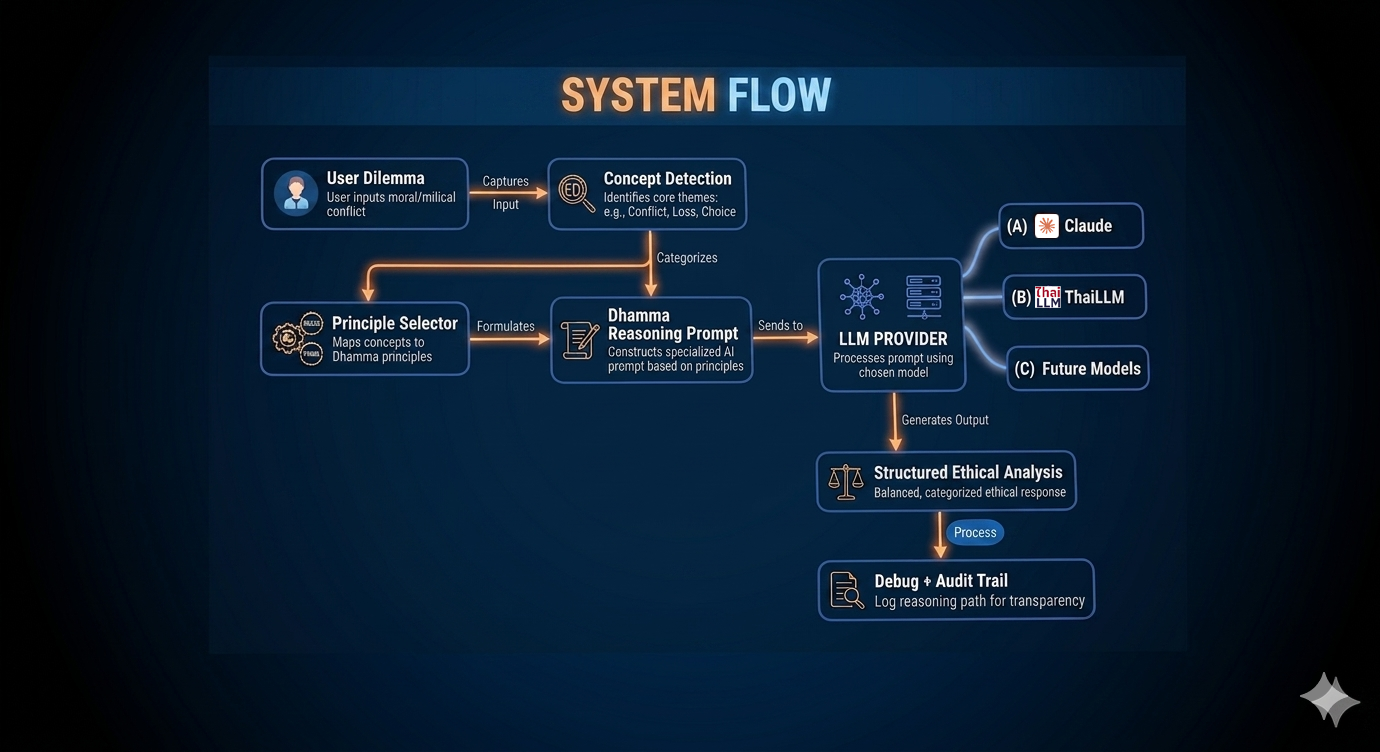
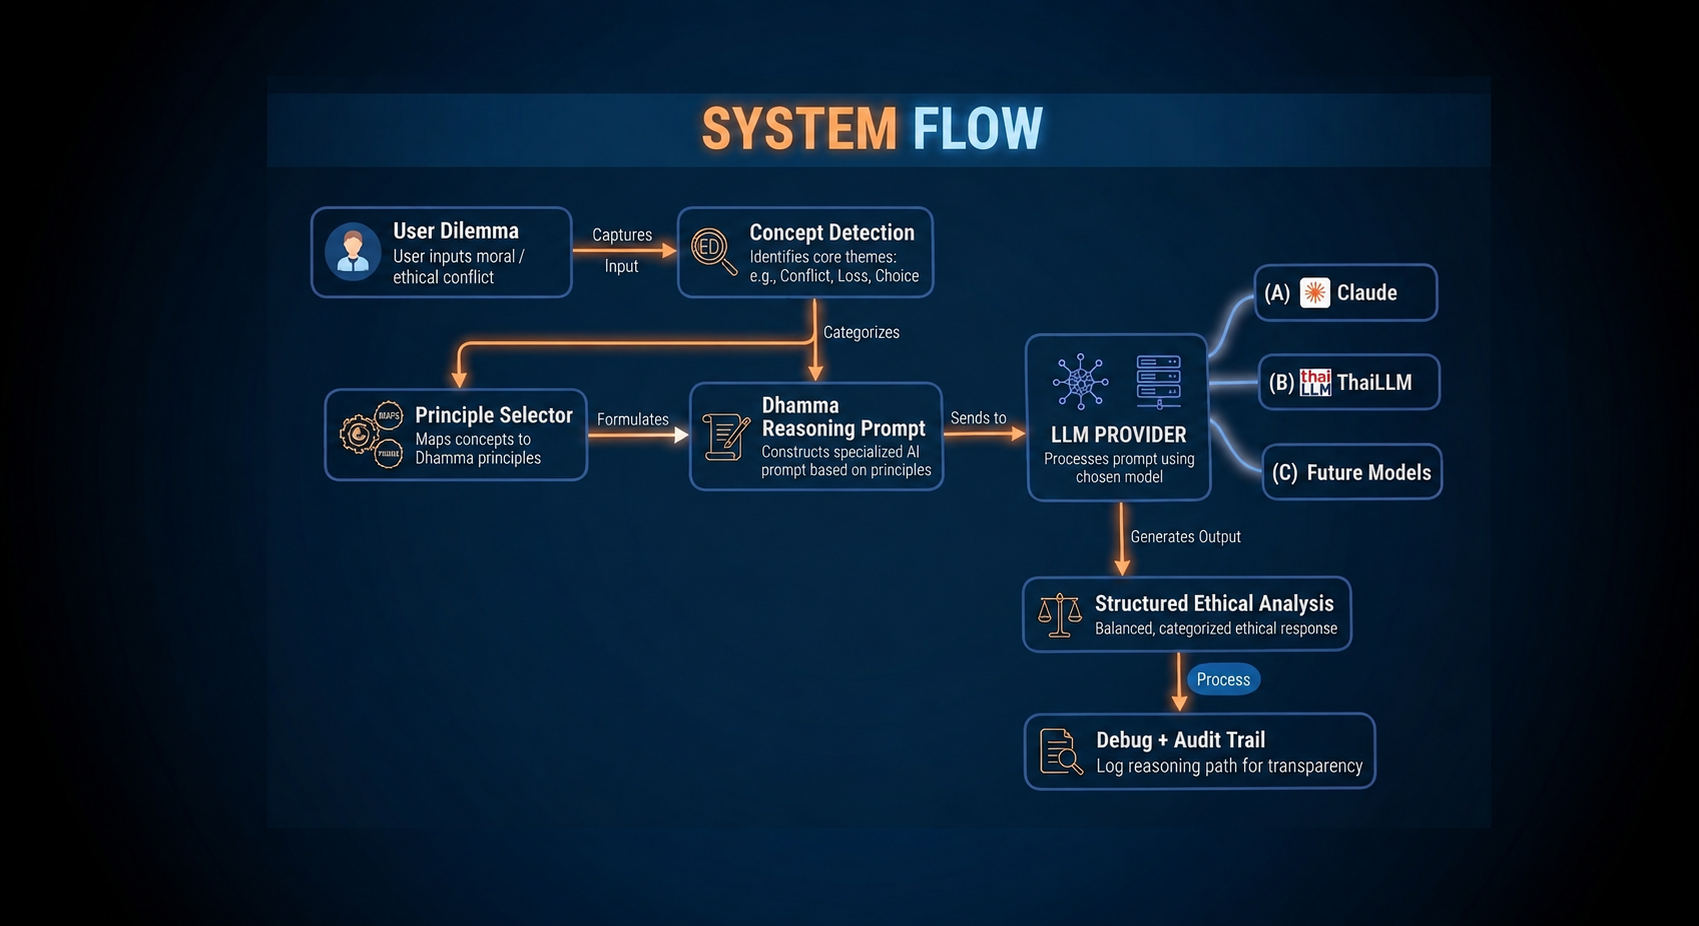
edit flowchart

Changed region(s): [[0.187, 0.0918, 0.8413, 0.8564], [0.9348, 0.887, 0.9971, 0.9481]]

diff --git a/docs/index.html b/docs/index.html
@@ -87,7 +87,7 @@ System</span>
     </div>
     <p class="landing-sub" data-i18n="landing_sub">Not answers. Clearer thinking.</p>
     <div class="btn-group">
-      <button class="btn btn-primary" onclick="showScreen('screen-input')" data-i18n="btn_start">Start a dilemma (Not on GitHub)</button>
+      <button class="btn btn-primary" onclick="showScreen('screen-input')" data-i18n="btn_start">Start a dilemma</button>
       <button class="btn btn-secondary" onclick="showScreen('screen-examples')" data-i18n="btn_example">Try an example</button>
     </div>
   </section>

diff --git a/public/index.html b/public/index.html
@@ -87,7 +87,7 @@ System</span>
     </div>
     <p class="landing-sub" data-i18n="landing_sub">Not answers. Clearer thinking.</p>
     <div class="btn-group">
-      <button class="btn btn-primary" onclick="showScreen('screen-input')" data-i18n="btn_start">Start a dilemma (Not on GitHub)</button>
+      <button class="btn btn-primary" onclick="showScreen('screen-input')" data-i18n="btn_start">Start a dilemma</button>
       <button class="btn btn-secondary" onclick="showScreen('screen-examples')" data-i18n="btn_example">Try an example</button>
     </div>
   </section>
